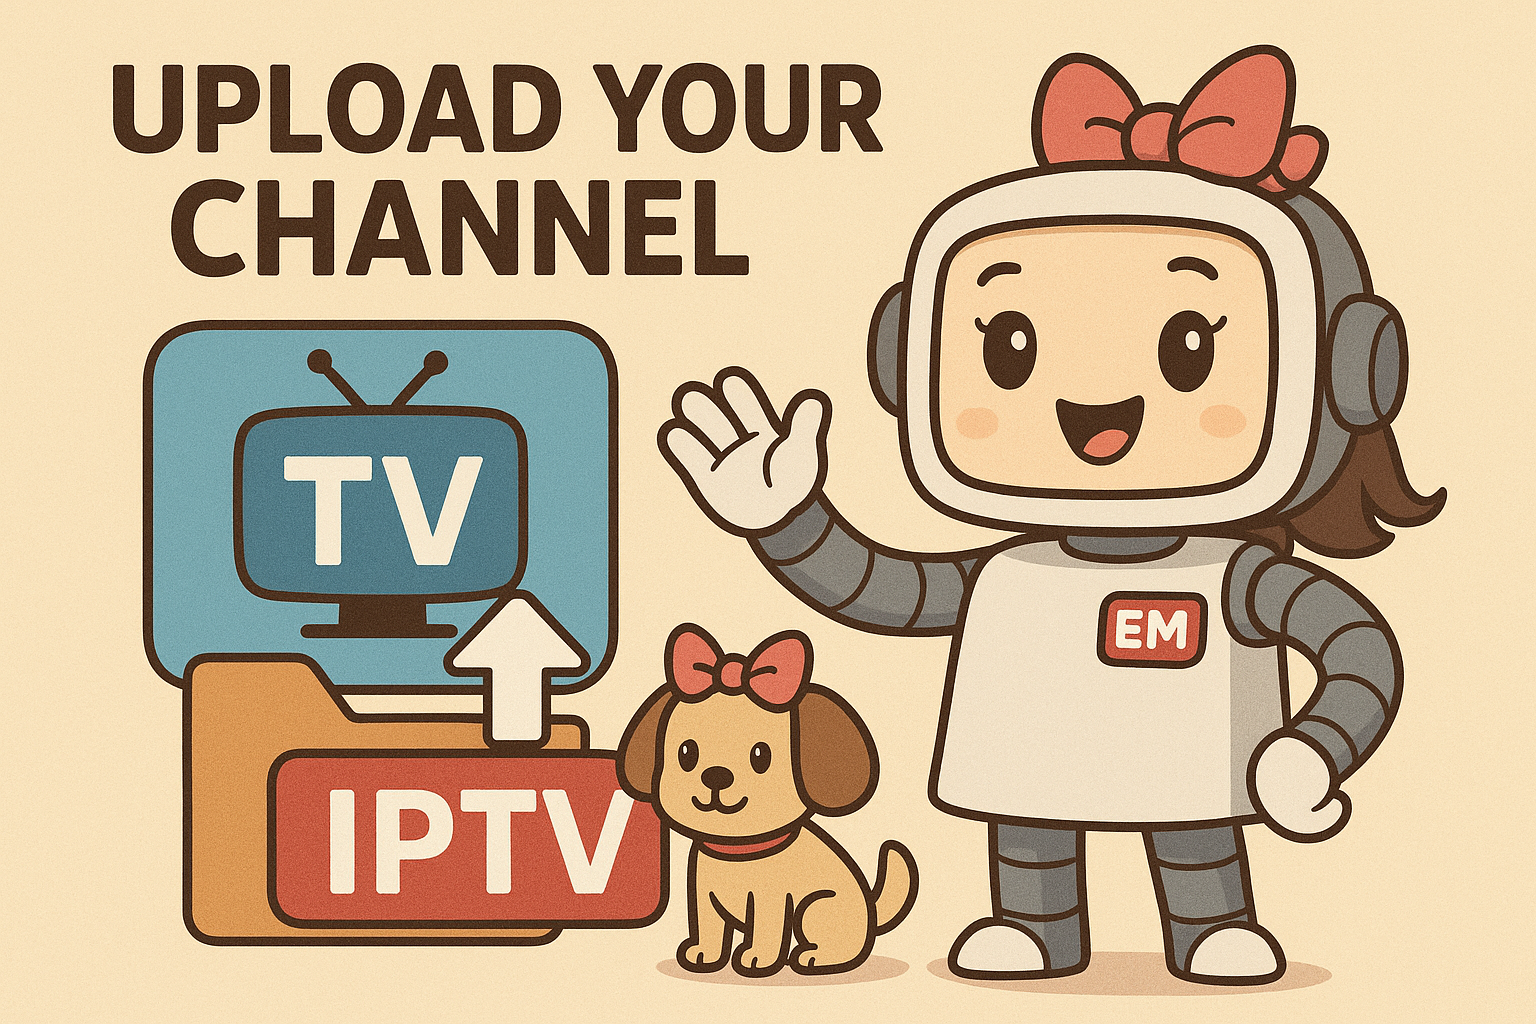
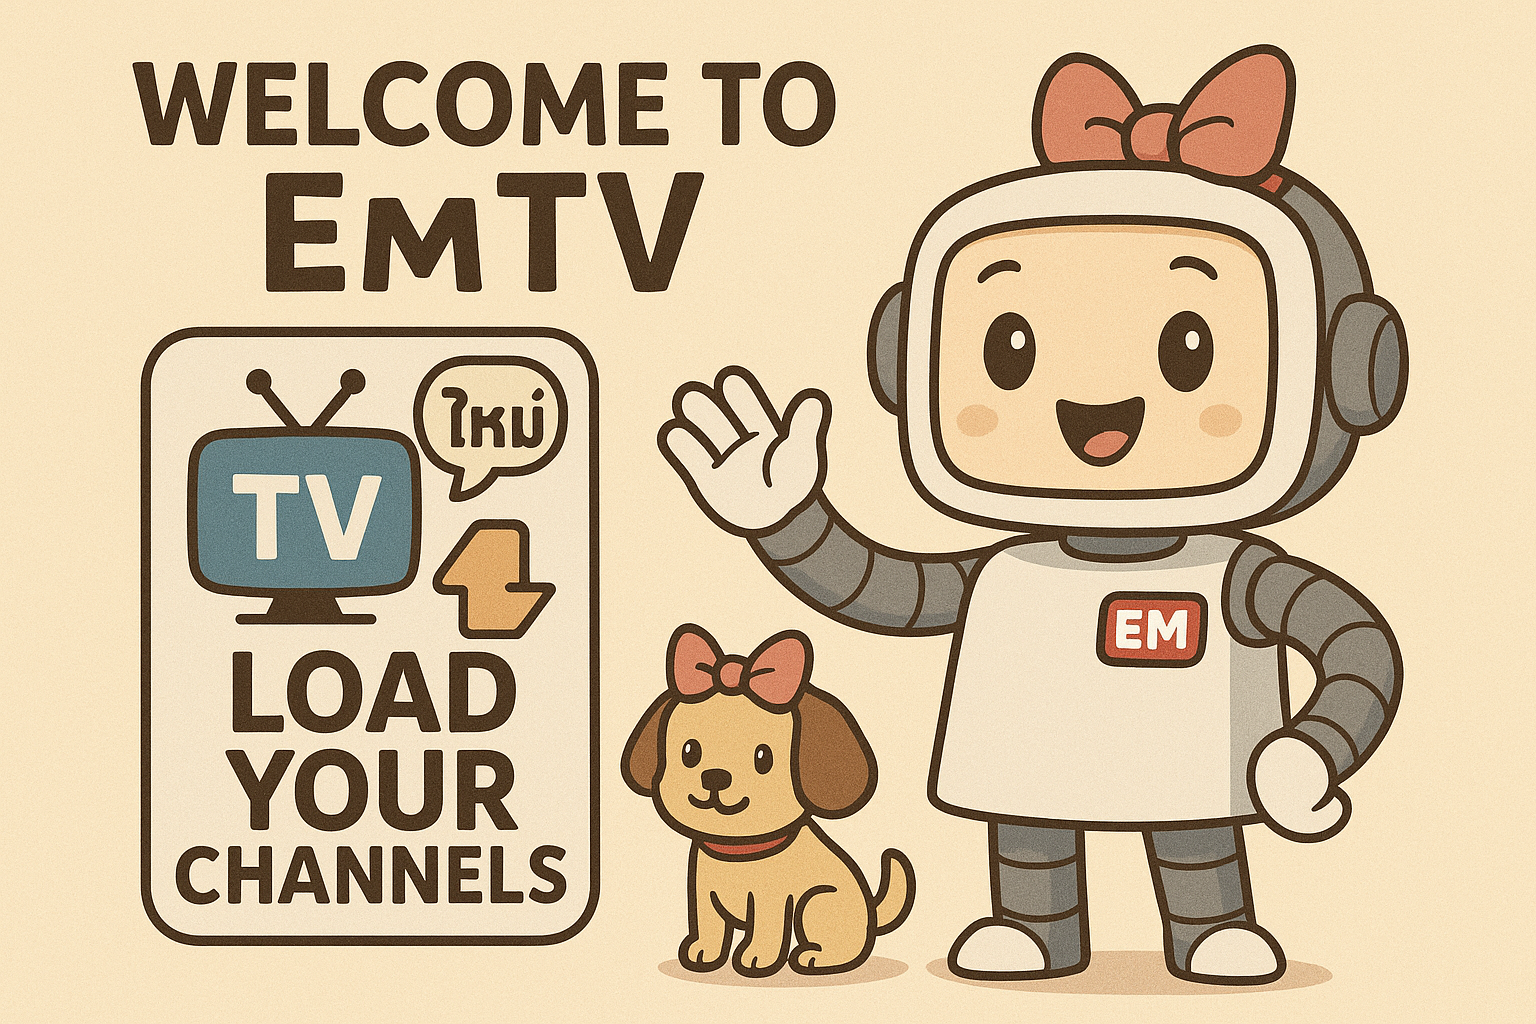
No autoplay and graphic to advise to load channels.

diff --git a/EmTV/MainWindow.xaml.cs b/EmTV/MainWindow.xaml.cs
@@ -48,35 +48,31 @@ namespace EmTV
         {
             InitializeComponent();
 
-            // Media player wiring
+            // Wire player and force idle
             Player.SetMediaPlayer(_mp);
-            _mp.AutoPlay = false;         // start idle to show the poster
-            _mp.Source = null;            // ensures the poster is visible
-            _mp.MediaFailed += (s, e) =>
-                System.Diagnostics.Debug.WriteLine($"MediaFailed: {e.Error} {e.ErrorMessage}");
+            _mp.AutoPlay = false;   // don't start when a Source is assigned
+            _mp.Source = null;      // ensure poster image is shown
+            Player.Source = null;   // (belt & suspenders)
 
-            // Let window receive keyboard shortcuts on focus
+            // Optional: hide seek bar for live TV
+            Player.TransportControls.IsSeekBarVisible = false;
+            Player.TransportControls.IsSeekEnabled = false;
+
+            // Keyboard shortcuts ready
             Activated += (_, __) => VideoHost.Focus(FocusState.Programmatic);
 
-            // AppWindow for fullscreen
+            // Fullscreen support
             var hwnd = WinRT.Interop.WindowNative.GetWindowHandle(this);
             var winId = Microsoft.UI.Win32Interop.GetWindowIdFromWindow(hwnd);
             _appWindow = AppWindow.GetFromWindowId(winId);
 
-            // Sample channels (you can remove later)
-            Samples.ItemsSource = new List<Sample>
-            {
-                new("7HD",    "https://lb1-live-mv.v2h-cdn.com/hls/ffac/gohg/gohg.m3u8"),
-                new("Amarin", "https://lb1-live-mv.v2h-cdn.com/hls/ffad/vibomi/vibomi.m3u8"),
-                new("Test (BBB)", "https://test-streams.mux.dev/x36xhzz/x36xhzz.m3u8"),
-            };
+            // Start with NO channels loaded
+            Samples.ItemsSource = Array.Empty<Channel>();
 
-            // Initialize emoji playlist buttons (optional JSON override)
+            // Set up emoji buttons (doesn't load any playlist automatically)
             _ = InitPlaylistsAsync();
-
-            // Start first sample
-            _ = PlayUrlAsync(((Sample)Samples.Items[0]).Url);
         }
+
 
         // =========================
         // Playback (headers supported)
